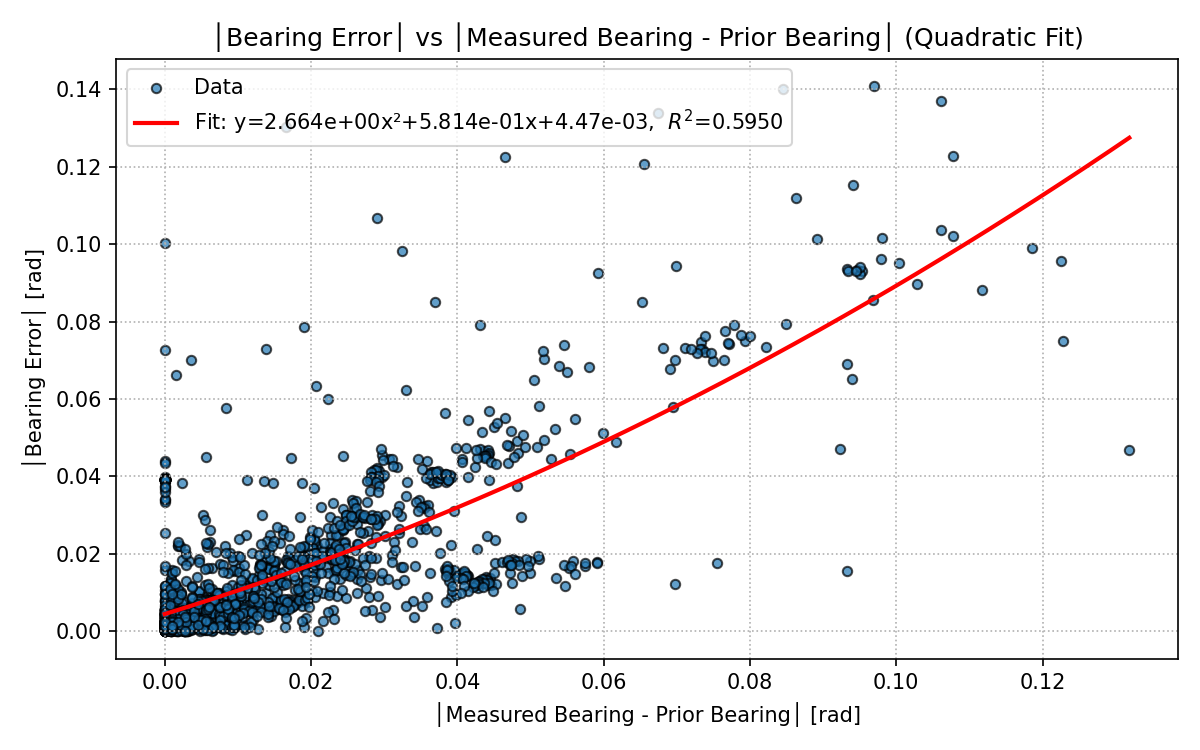
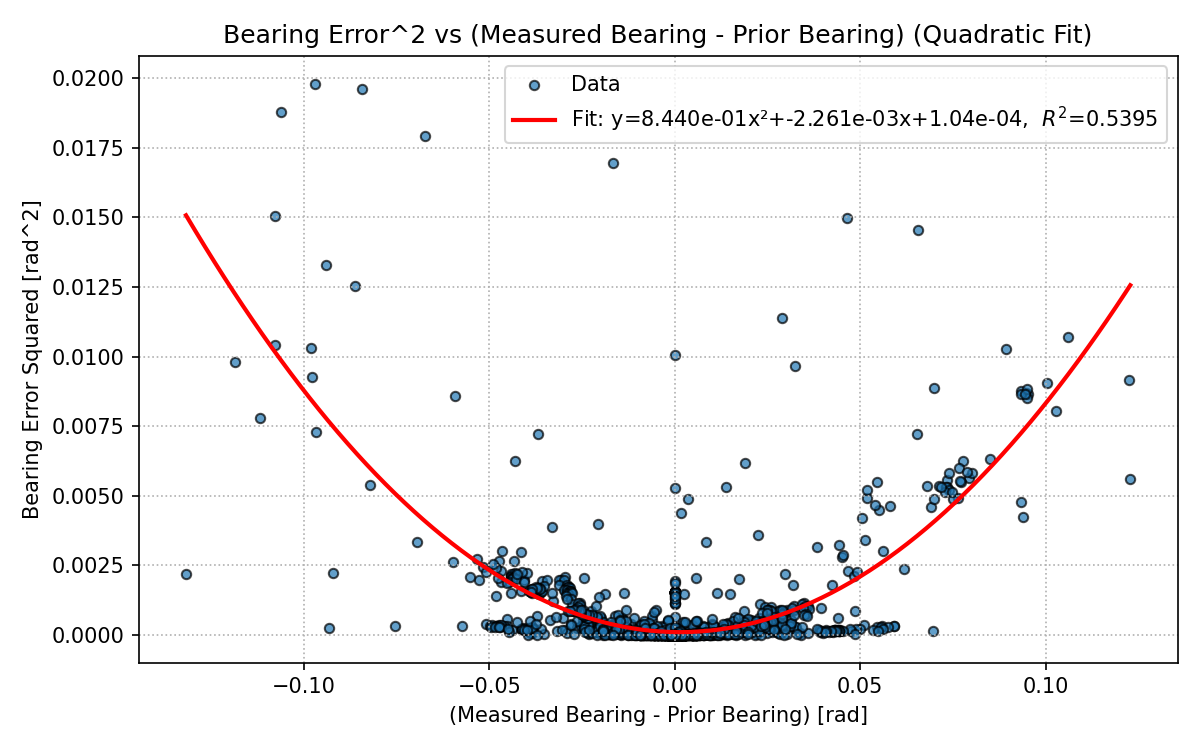
Lab 5 - Assignment 4 Fixed

diff --git a/lab5/fit_model.py b/lab5/fit_model.py
@@ -2,65 +2,92 @@
 AI was used to assist with plotting functions.
 '''
 
-from pathlib import Path
 import pickle
+from pathlib import Path
 import numpy as np
 import pandas as pd
 import matplotlib.pyplot as plt
 
+# Get the data directory:
 SCRIPT_DIR = Path(__file__).resolve().parent
 
 # ---------- Distance: y = distance_error vs x = est_distance (linear fit) ----------
 dist_data_path = SCRIPT_DIR / 'saved_data' / 'data_distance' / 'error_characterization_log.pkl'
 with dist_data_path.open('rb') as f:
     dist_data = pickle.load(f)
-df_dist = pd.DataFrame(dist_data)
+df = pd.DataFrame(dist_data)
 
-x = df_dist['est_distance'].to_numpy()
-y = df_dist['distance_error'].to_numpy()
+# Convert to DataFrame
+print(f'Loaded {len(df)} samples from {dist_data_path}')
+print(df.head())
 
-mask = np.isfinite(x) & np.isfinite(y)
-x, y = x[mask], y[mask]
+# Add velocity proxies:
+df["est_distance_diff"] = df["est_distance"] - df["est_distance"].shift(1)
+df["est_bearing_diff"] = df["est_bearing"] - df["est_bearing"].shift(1)
 
-m, b = np.polyfit(x, y, 1)
-y_fit = m * x + b
+# Correlation table:
+corr_matrix = df.corr(numeric_only=True)
+print("Correlation Table:")
+print(corr_matrix)
+
+d_measured = df['est_distance'].to_numpy()
+d_error =  df['distance_error'].to_numpy()
+x = d_measured
+y = d_error**2
+
+a2, a1, a0 = np.polyfit(x, y, 2)
+y_fit = a2 * x**2 + a1 * x + a0
 
 ss_res = np.sum((y - y_fit) ** 2)
 ss_tot = np.sum((y - np.mean(y)) ** 2)
 r2 = 1 - ss_res / ss_tot
-print(f"[Distance] Linear fit: y = {m:.6f}x + {b:.6f} | R² = {r2:.6f}")
+print(f'Fit: y={a2:.3e}x²+{a1:.3e}x+{a0:.2e},  $R^2$={r2:.4f}')
 
 fig = plt.figure(figsize=(8, 5))
 plt.scatter(x, y, s=20, alpha=0.7, edgecolors='k', label='Data')
 x_line = np.linspace(x.min(), x.max(), 200)
-y_line = m * x_line + b
-plt.plot(x_line, y_line, 'r-', lw=2, label=f'Fit: y={m:.4e}x+{b:.2e},  $R^2$={r2:.4f}')
-plt.title('Distance Error vs Measured Distance')
+y_line = a2 * x_line**2 + a1 * x_line + a0
+plt.plot(x_line, y_line, 'r-', lw=2, 
+    label=f'Fit: y={a2:.3e}x²+{a1:.3e}x+{a0:.2e},  $R^2$={r2:.4f}')
+plt.title('Distance Error Squared vs Measured Distance')
 plt.xlabel('Measured Distance [m]')
-plt.ylabel('Distance Error [m]')
+plt.ylabel('Distance Error Squared [m^2]')
 plt.grid(True, ls=':')
 plt.legend()
 plt.tight_layout()
 plt.show()
 
-out_distance = SCRIPT_DIR / 'distance_error_fit.png'
+out_distance = SCRIPT_DIR / 'distance_error_quadratic_fit.png'
 fig.savefig(out_distance, dpi=150)
 print(f"[saved] {out_distance}")
 
-# ---------- Bearing: |bearing_error| vs |Δ est_bearing| (quadratic fit) ----------
+# ---------- Bearing: bearing_error_squared vs |Δ est_bearing| (quadratic fit) ----------
 bear_data_path = SCRIPT_DIR / 'saved_data' / 'data_bearing' / 'error_characterization_log.pkl'
 with bear_data_path.open('rb') as f:
     bear_data = pickle.load(f)
-df_bear = pd.DataFrame(bear_data)
+df = pd.DataFrame(bear_data)
 
-d_est = df_bear['est_bearing'].to_numpy()
-d_err = np.abs(df_bear['bearing_error'].to_numpy())
+# Convert to DataFrame
+print(f'Loaded {len(df)} samples from {bear_data_path}')
+print(df.head())
+
+# Add velocity proxies:
+df["est_distance_diff"] = df["est_distance"] - df["est_distance"].shift(1)
+df["est_bearing_diff"] = df["est_bearing"] - df["est_bearing"].shift(1)
+
+# Correlation table:
+corr_matrix = df.corr(numeric_only=True)
+print("Correlation Table:")
+print(corr_matrix)
+
+d_est = df['est_bearing'].to_numpy()
+d_err = df['bearing_error'].to_numpy()
 
 # Δ between consecutive measured bearings (proxy for velocity);
 d_prior    = d_est[:-2]
 d_measured = d_est[1:-1]
-x = np.abs(d_measured - d_prior)         
-y = d_err[1:-1]                            
+x = d_measured - d_prior         
+y = d_err[1:-1]**2                            
 
 a2, a1, a0 = np.polyfit(x, y, 2)
 y_fit = a2 * x**2 + a1 * x + a0
@@ -76,9 +103,9 @@ x_line = np.linspace(x.min(), x.max(), 200)
 y_line = a2 * x_line**2 + a1 * x_line + a0
 plt.plot(x_line, y_line, 'r-', lw=2,
          label=f'Fit: y={a2:.3e}x²+{a1:.3e}x+{a0:.2e},  $R^2$={r2:.4f}')
-plt.title('│Bearing Error│ vs │Measured Bearing - Prior Bearing│ (Quadratic Fit)')
-plt.xlabel('│Measured Bearing - Prior Bearing│ [rad]')
-plt.ylabel('│Bearing Error│ [rad]')
+plt.title('Bearing Error^2 vs (Measured Bearing - Prior Bearing) (Quadratic Fit)')
+plt.xlabel('(Measured Bearing - Prior Bearing) [rad]')
+plt.ylabel('Bearing Error Squared [rad^2]')
 plt.grid(True, ls=':')
 plt.legend()
 plt.tight_layout()
